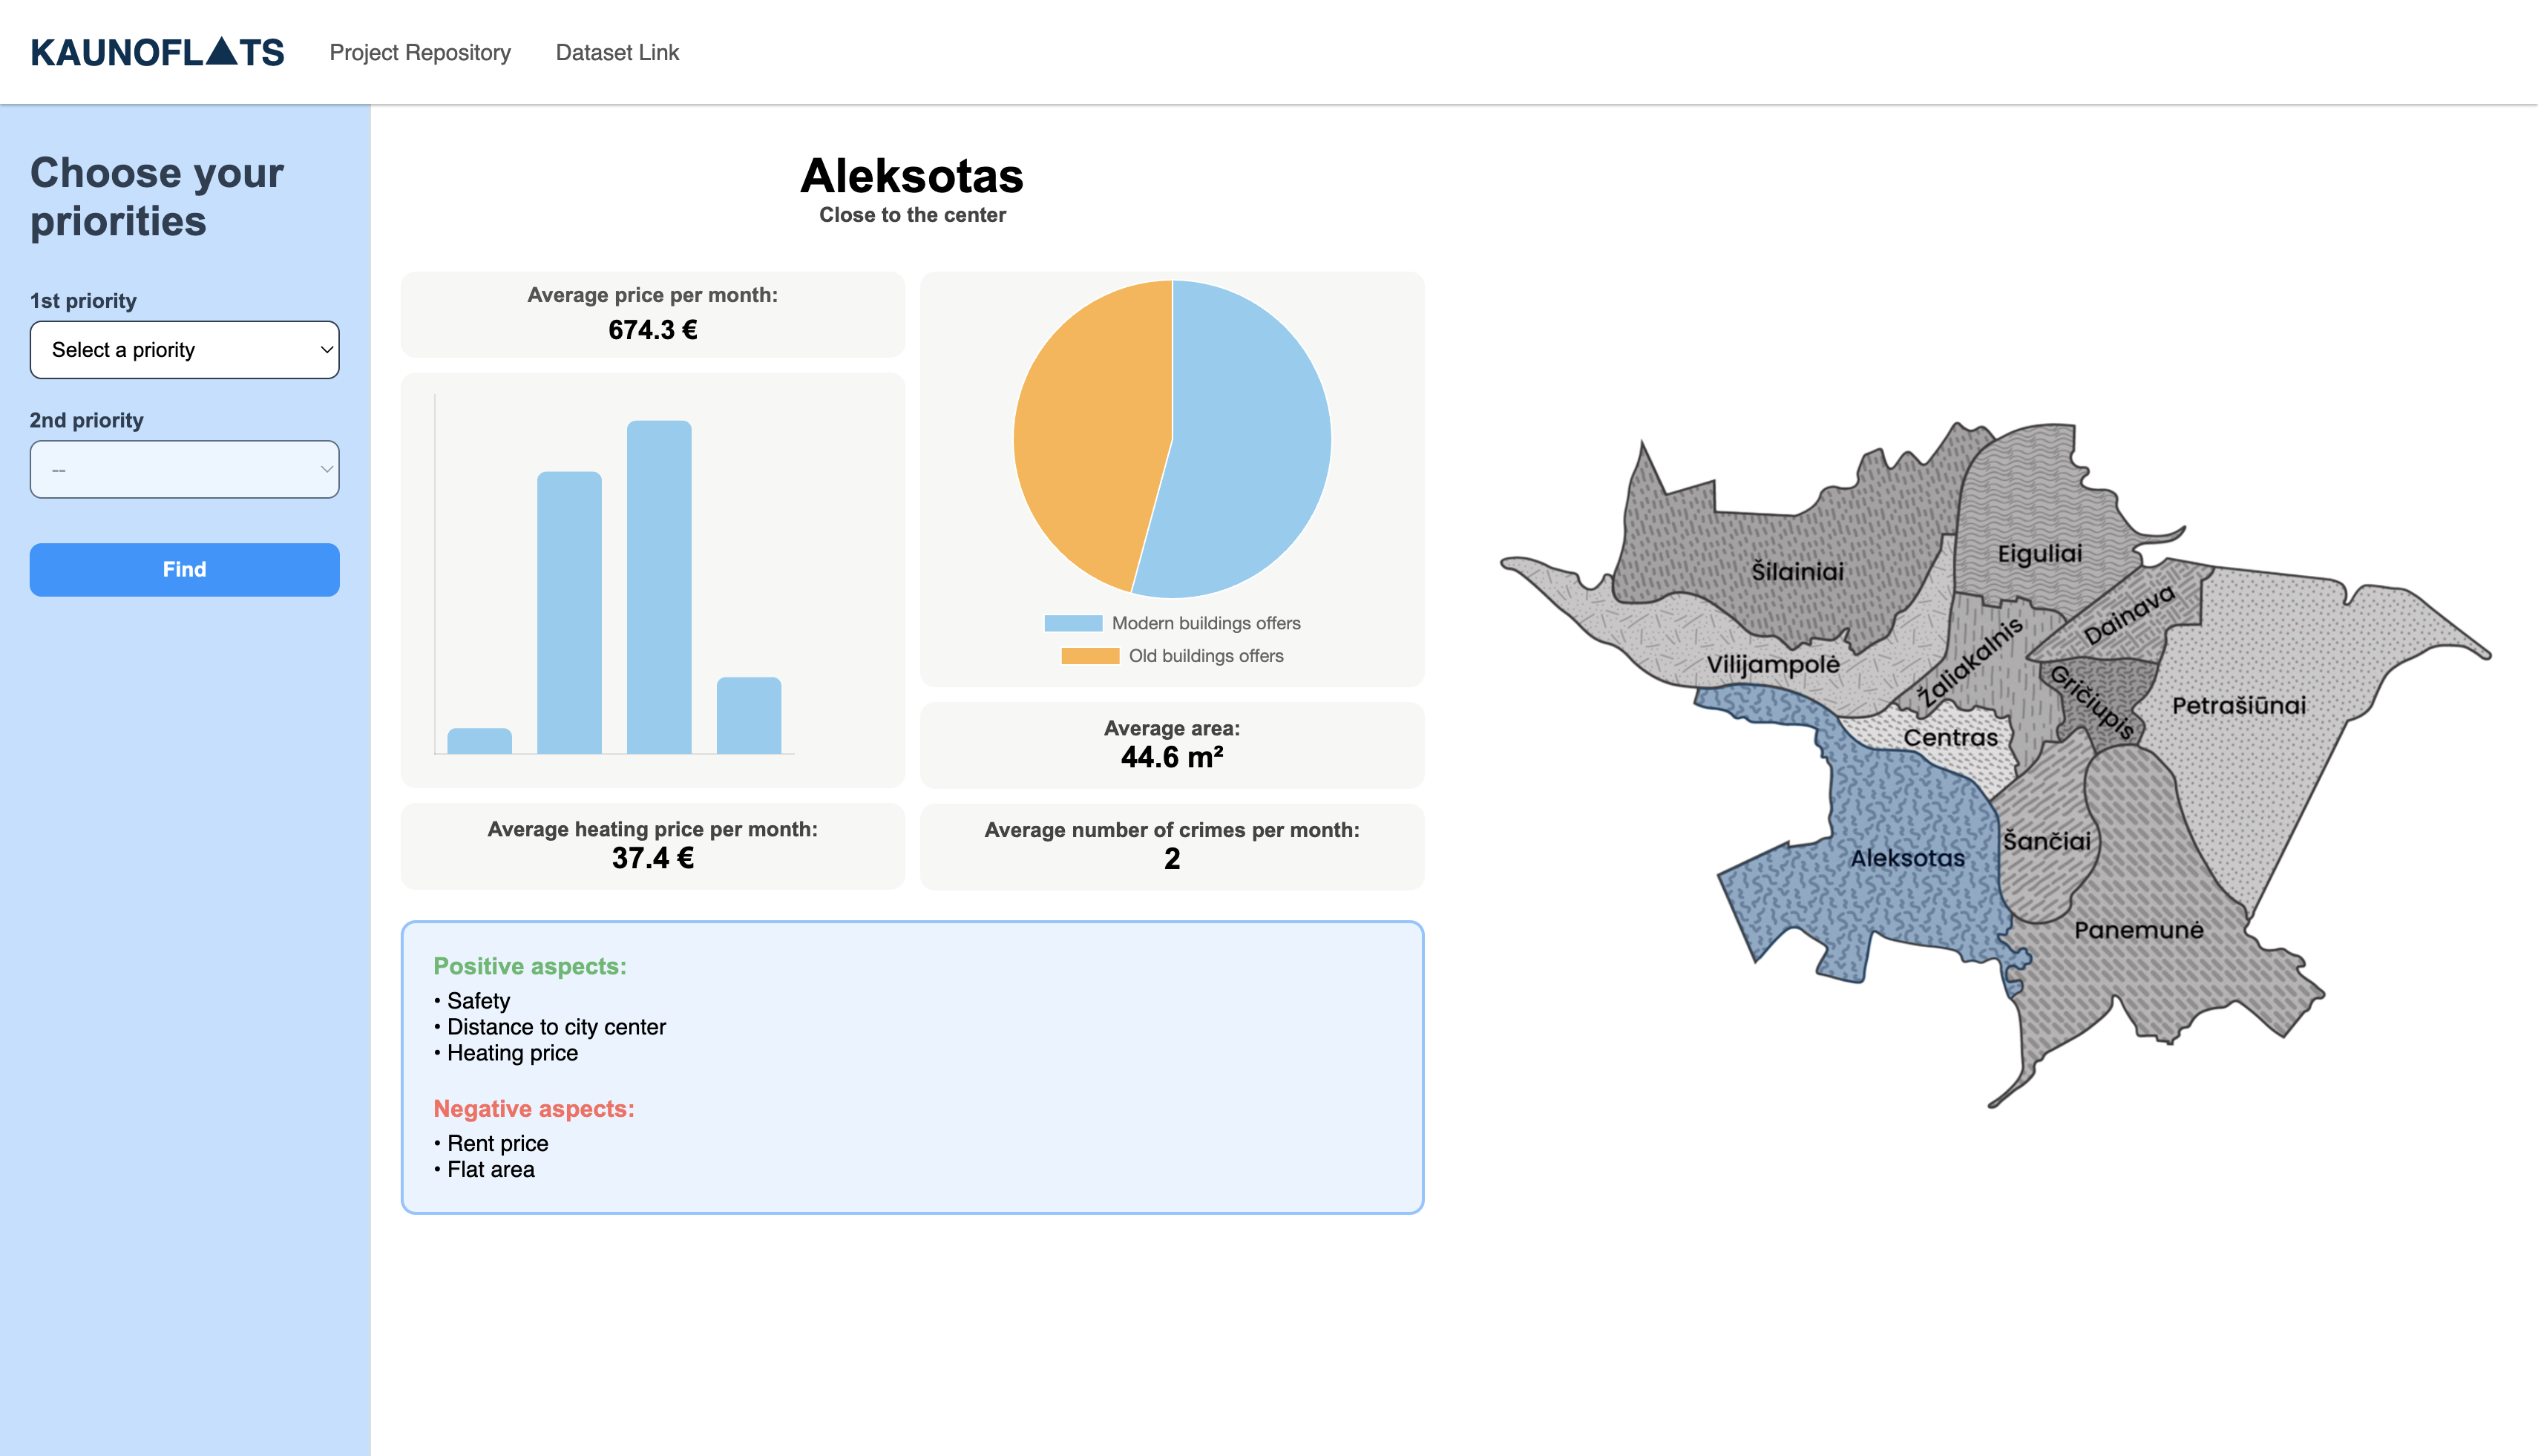
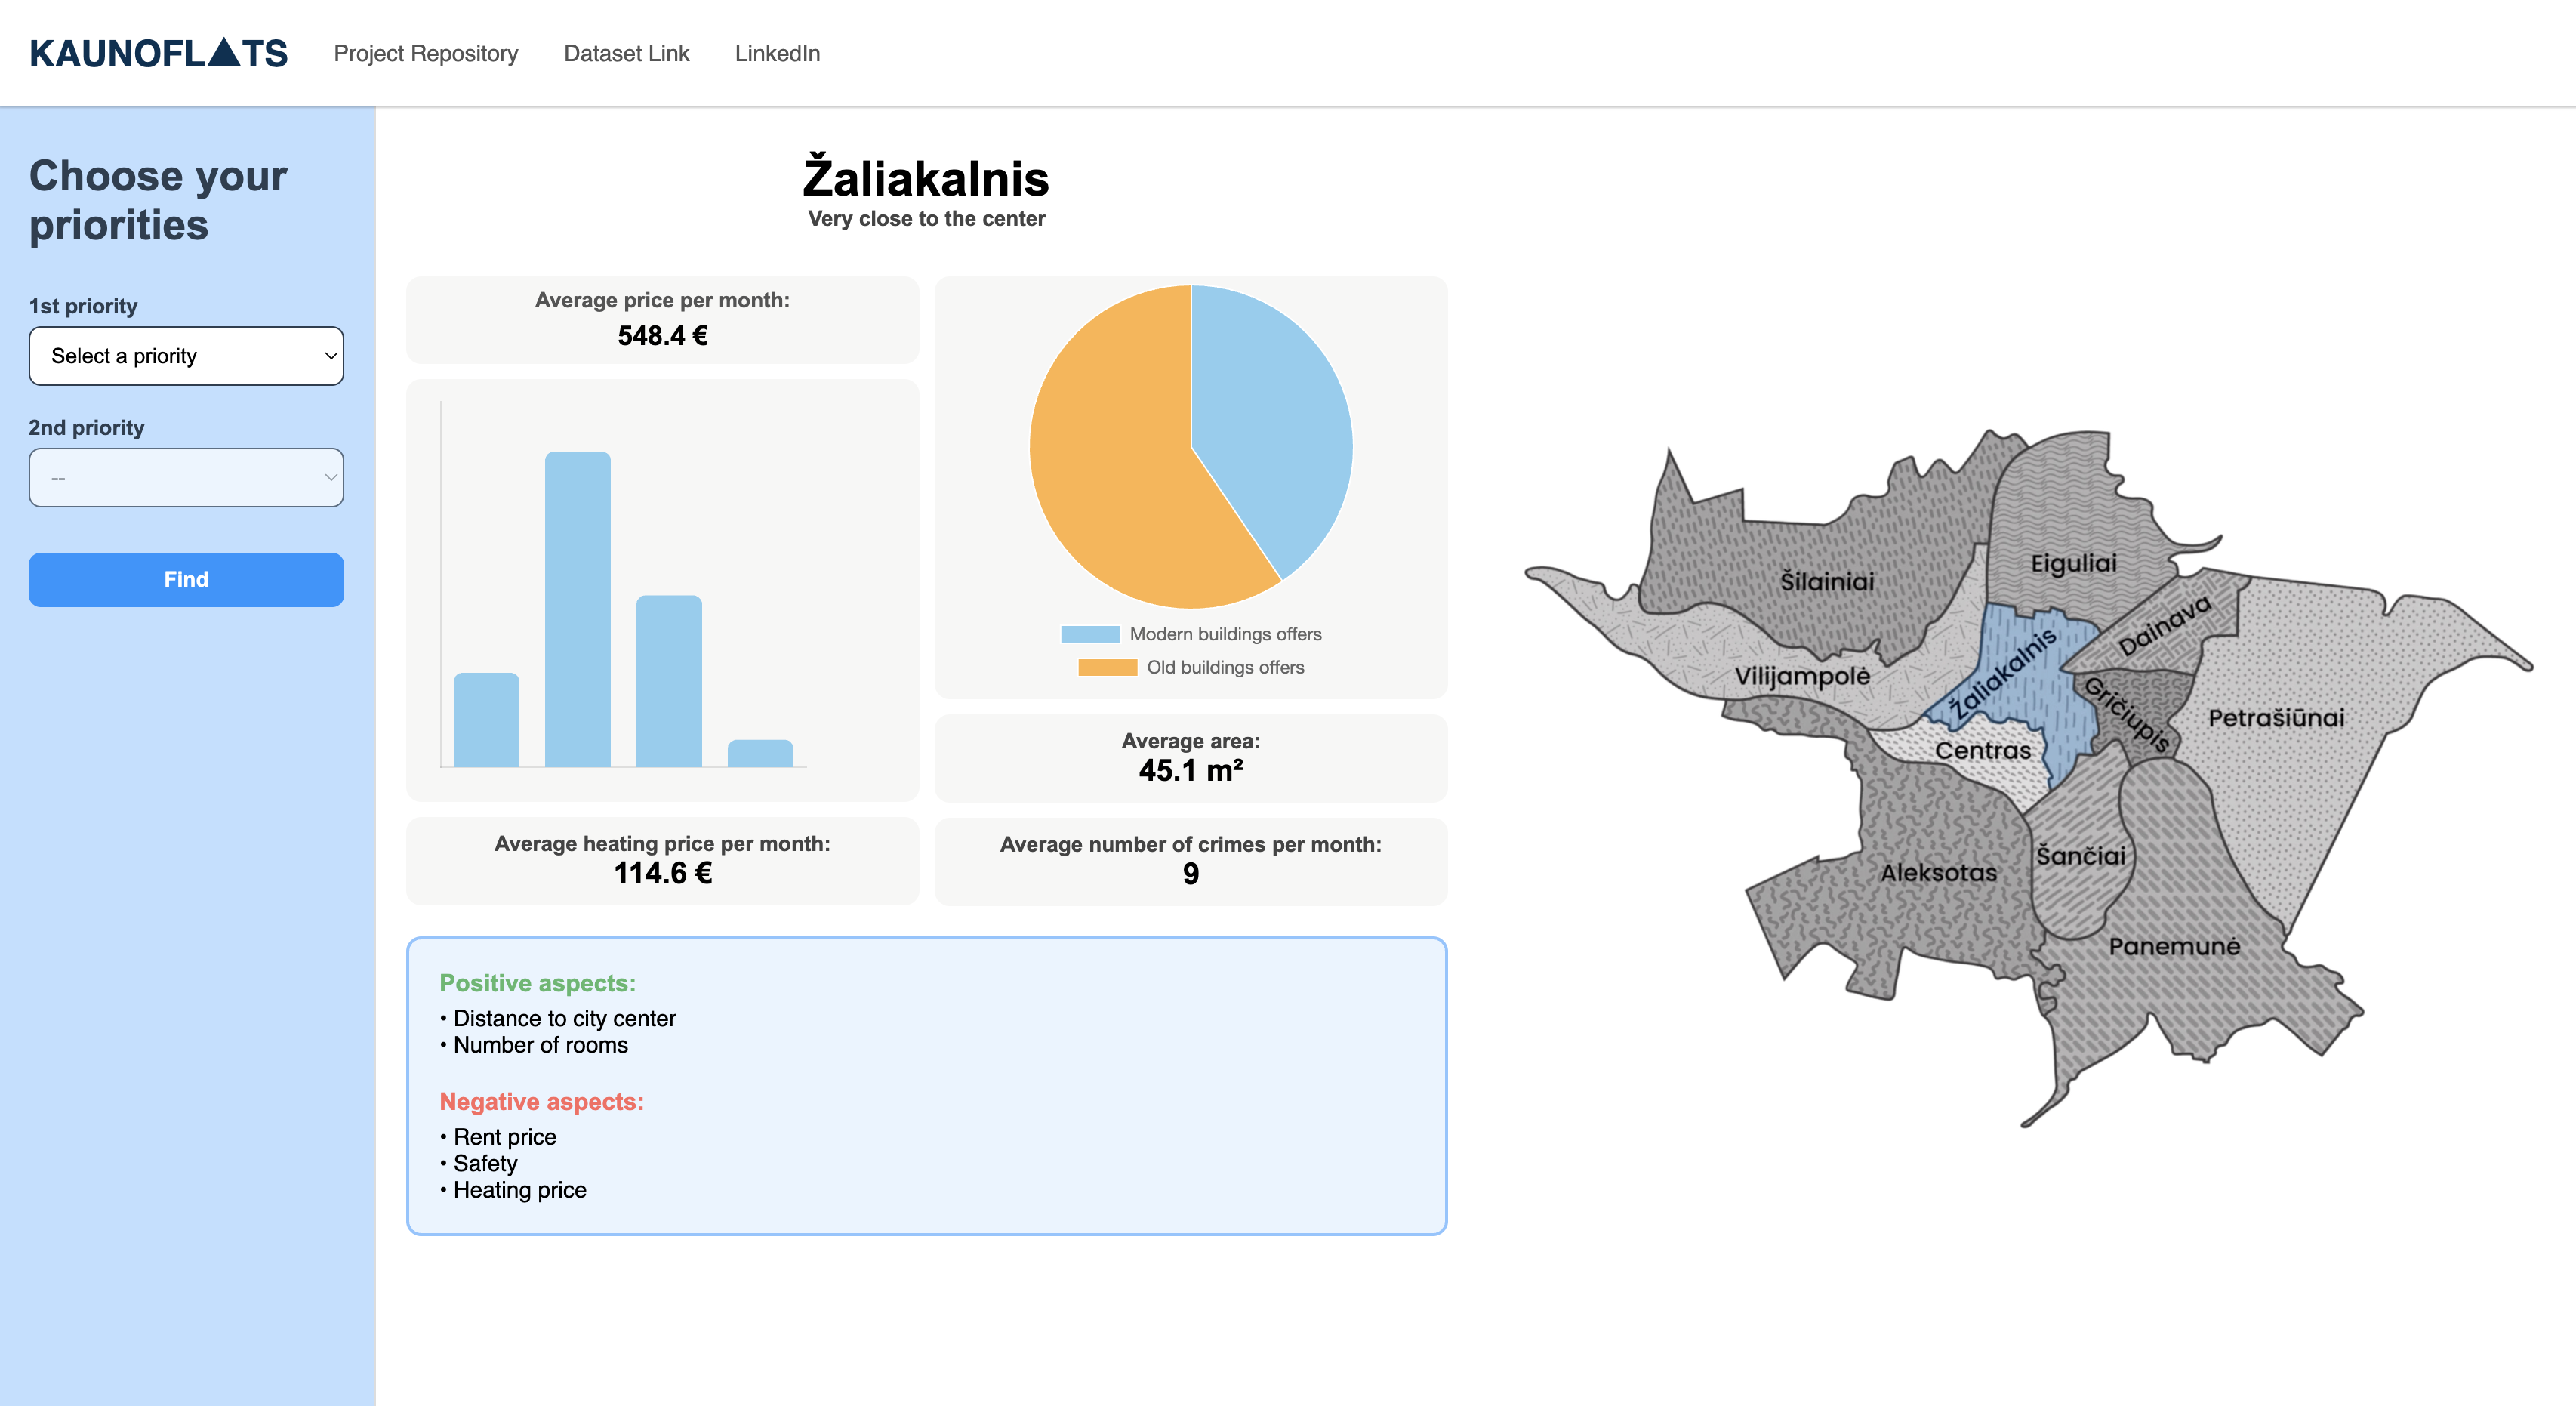
linkedin link added

diff --git a/web_app/static/title.css b/web_app/static/title.css
@@ -13,40 +13,43 @@ body {
       overflow-x: hidden;
 }
 
-#topbar {
-      display: flex;
-      justify-content: flex-start;  
-      align-items: center; 
-      position: fixed;
-      top: 0;
-      left: 0;
-      width: 100%;
-      height: 70px;
-      background-color: white;
-      box-shadow: 0 1px 2px rgba(0, 0, 0, 0.3);
-      z-index: 1001;
+#header-container {
+    display: flex;
+    justify-content: flex-start;
+    align-items: center;
+    gap: 30px;
+    height: 70px;
+    padding: 0 20px;
+    background-color: white;
+    box-shadow: 0 1px 2px rgba(0, 0, 0, 0.3);
+    position: fixed;
+    top: 0;
+    left: 0;
+    width: 100%;
+    z-index: 1001;
 }
 
-#topbar h2{
-      margin-top: 18px;  
-      margin-left: 20px;        
-      text-align: left;   
-      color: #003153;      
-      font-style: normal;
-      font-family: 'Roboto', sans-serif;
+#name a {
+    text-decoration: none;
 }
 
-#name a{
-      text-decoration: none;
+#name h2 {
+    color: #003153;
+    font-family: 'Roboto', sans-serif;
+    font-style: normal;
 }
 
-#links a{
-      margin-left: 30px;
-      color: rgb(86, 86, 86);
-      font-size: 15px;
-      font-family: 'Roboto', sans-serif;
-      font-weight: normal; 
-      text-decoration: none;
+#links {
+    display: flex;
+    gap: 30px;
+}
+
+#links a {
+    color: rgb(86, 86, 86);
+    font-size: 15px;
+    font-family: 'Roboto', sans-serif;
+    font-weight: normal;
+    text-decoration: none;
 }
 
 .hero {

diff --git a/web_app/templates/title.html b/web_app/templates/title.html
@@ -6,19 +6,8 @@
   <link rel="stylesheet" href="{{ url_for('static', filename='title.css') }}">
 </head>
 <body>
-  <div id="topbar">
-    <div id="name">
-      <a href="{{ url_for('redirection') }}">
-        <h2>KAUNOFL▲TS</h2>
-      </a>
-    </div>
-    <div id="links">
-      <a href="https://github.com/gr1dsan/KaunoFlats_Data_Analisys_Project.git">Project Repository</a>
-    </div>
-     <div id="links">
-      <a href="https://kaggle.com/datasets/892818a3efd222a9a2e0260b4eedadb73e8b4d535c7d95d75c5790a758ce46f1">Dataset Link</a>
-    </div>
-  </div>
+
+  {%include 'header.html' %}
 
   <div class="hero">
     <h1>Find your perfect district</h1>

diff --git a/web_app/templates/index.html b/web_app/templates/index.html
@@ -11,22 +11,10 @@
 
     <div id="main-container">
 
-        <!-- TOP BAR -->
-        <div id="header-container">
-            <div id="name">
-                <a href="{{ url_for('redirection') }}">
-                    <h2>KAUNOFL▲TS</h2>
-                </a>
-            </div>
-            <div id="links">
-                <a href="https://github.com/gr1dsan/KaunoFlats_Data_Analisys_Project.git">Project Repository</a>
-                <a href="https://kaggle.com/datasets/892818a3efd222a9a2e0260b4eedadb73e8b4d535c7d95d75c5790a758ce46f1">Dataset Link</a>
-            </div>
-        </div>
+        {% include 'header.html' %}
 
         <div id="content-container">
 
-            <!-- LEFT: FILTERS -->
             <div id="filters-container">
                 <form method="POST">
                     <h1>Choose your priorities</h1>

diff --git a/web_app/templates/header.html b/web_app/templates/header.html
@@ -1,0 +1,12 @@
+<div id="header-container">
+    <div id="name">
+        <a href="{{ url_for('redirection') }}">
+            <h2>KAUNOFL▲TS</h2>
+        </a>
+    </div>
+    <div id="links">
+        <a href="https://github.com/gr1dsan/KaunoFlats_Data_Analisys_Project.git">Project Repository</a>
+        <a href="https://kaggle.com/datasets/892818a3efd222a9a2e0260b4eedadb73e8b4d535c7d95d75c5790a758ce46f1">Dataset Link</a>
+        <a href="https://www.linkedin.com/in/vladyslav-hridin-b11b68356/">LinkedIn</a>
+    </div>
+</div>